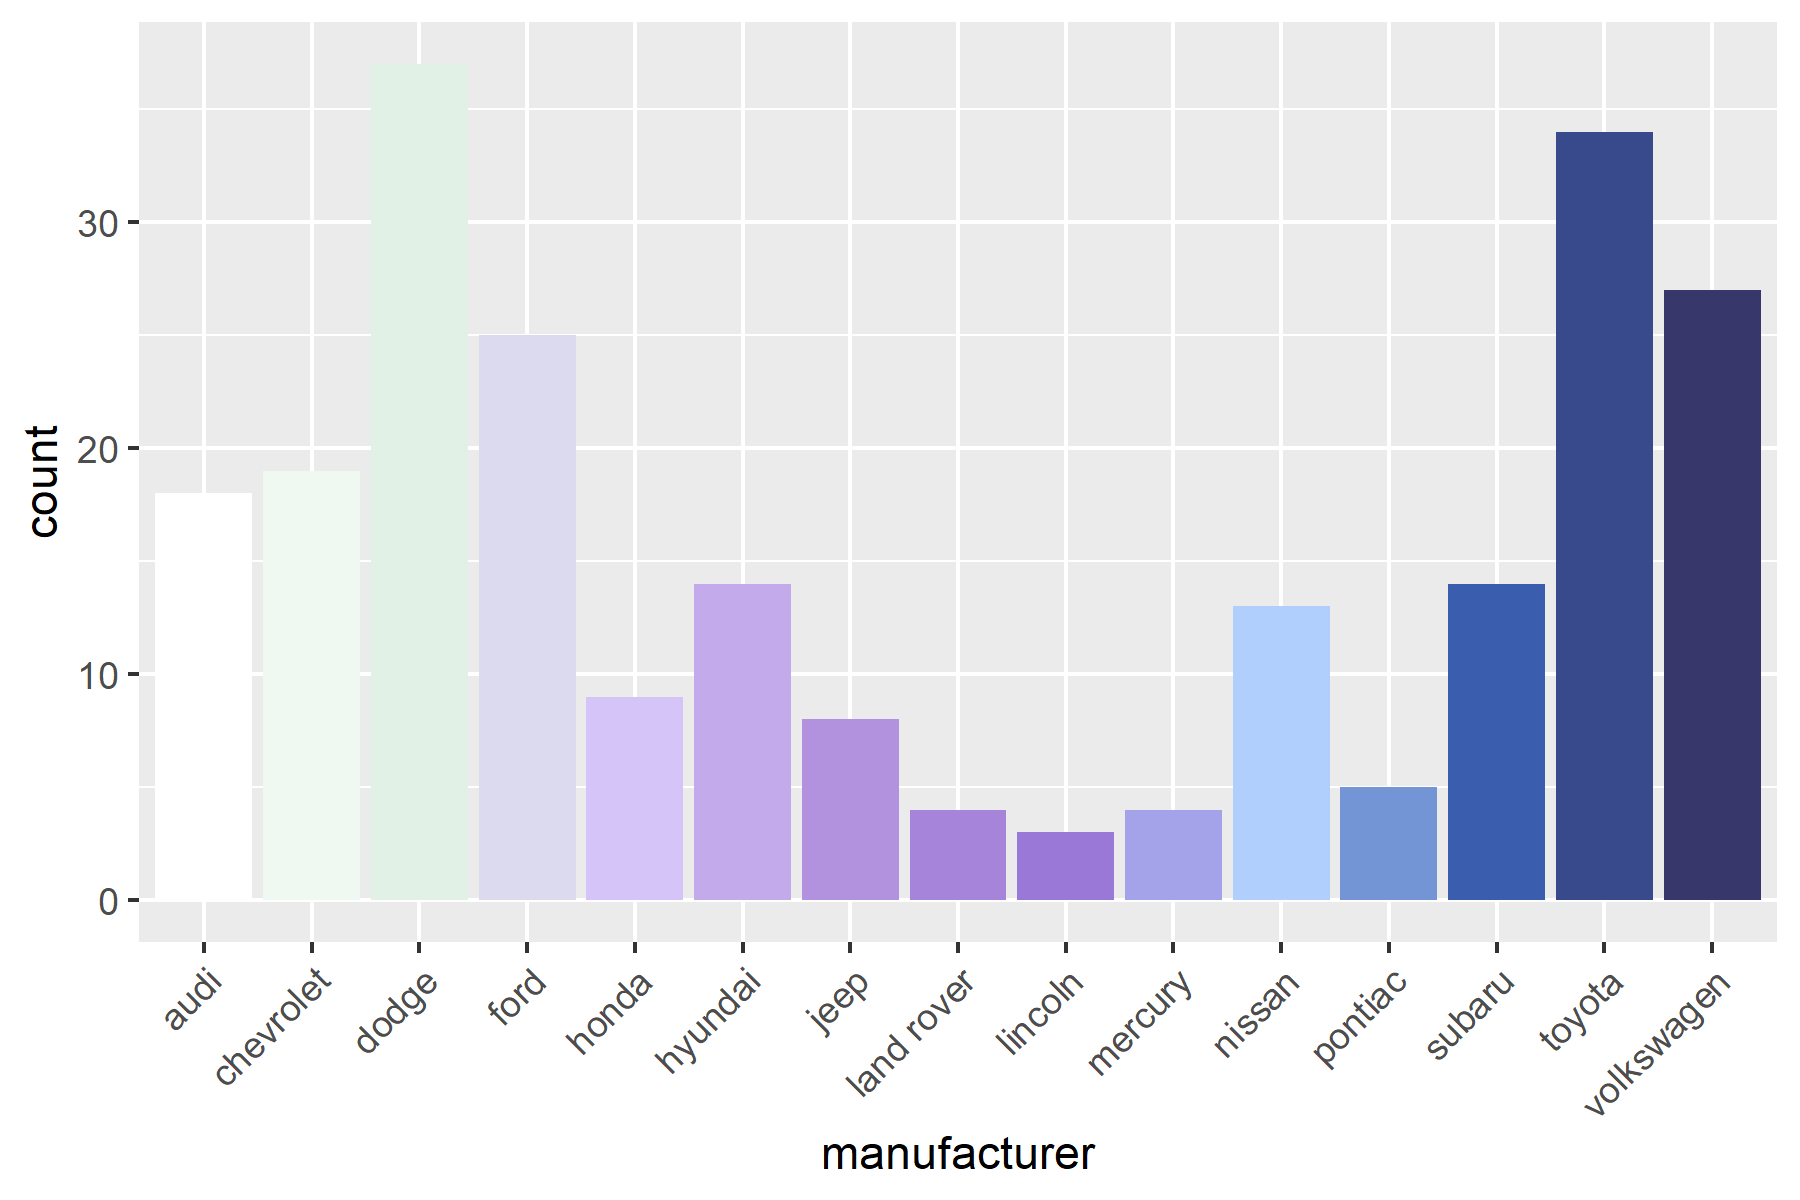
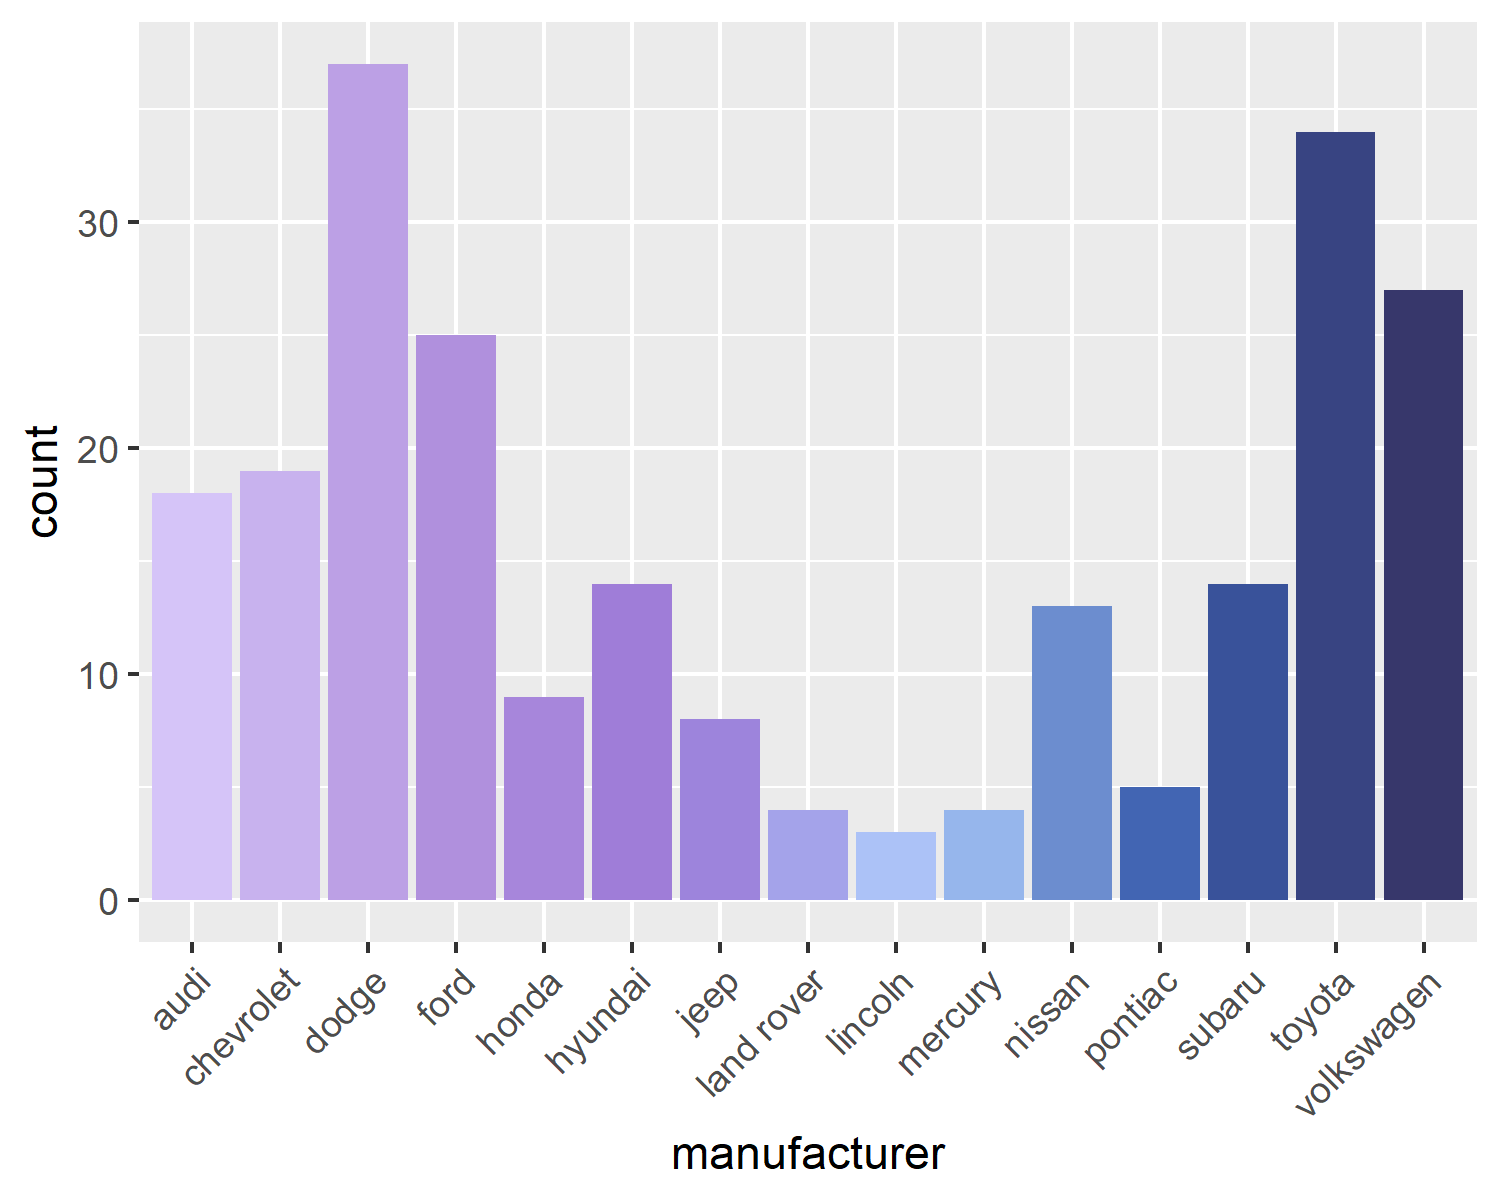
changed palette, added raster plot

diff --git a/README.md b/README.md
@@ -17,6 +17,16 @@ devtools::install_github("manucarl/bluepally")
 
 ## Examples
 
+```r
+ggplot(faithfuld, aes(waiting, eruptions, fill = density)) +
+ geom_raster() +
+ scale_x_continuous(NULL, expand = c(0, 0)) + 
+ scale_y_continuous(NULL, expand = c(0, 0)) + 
+ theme_void()+
+ theme(legend.position = "none")+
+ scale_fill_blueberry(discrete=F)
+```
+<img src="man/figs/p3.png"/>
 
 ``` r
 library(bluepally)
@@ -25,8 +35,8 @@ library(ggplot2)
 blueberry_colors
 
 ggplot(iris, aes(Sepal.Width, Sepal.Length, color = Species)) +
-geom_point(size = 4) +
-scale_color_blueberry(palette="blue", reverse = TRUE)
+ geom_point(size = 4) +
+ scale_color_blueberry(palette="blue", reverse = TRUE)
 ```
 
 <img src="man/figs/p1.png"/>
@@ -34,9 +44,9 @@ scale_color_blueberry(palette="blue", reverse = TRUE)
 
 ``` r
 ggplot(mpg, aes(manufacturer, fill = manufacturer)) +
-geom_bar() +
-theme(axis.text.x = element_text(angle = 45, hjust = 1)) +
-scale_fill_blueberry( guide = "none")
+ geom_bar() +
+ theme(axis.text.x = element_text(angle = 45, hjust = 1)) +
+ scale_fill_blueberry( guide = "none")
 ```
 
 <img src="man/figs/p2.png"/>
